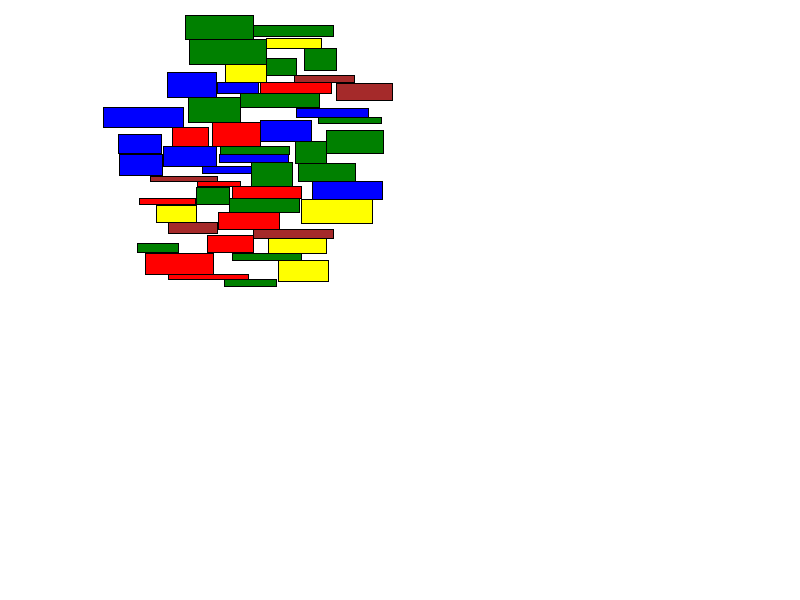
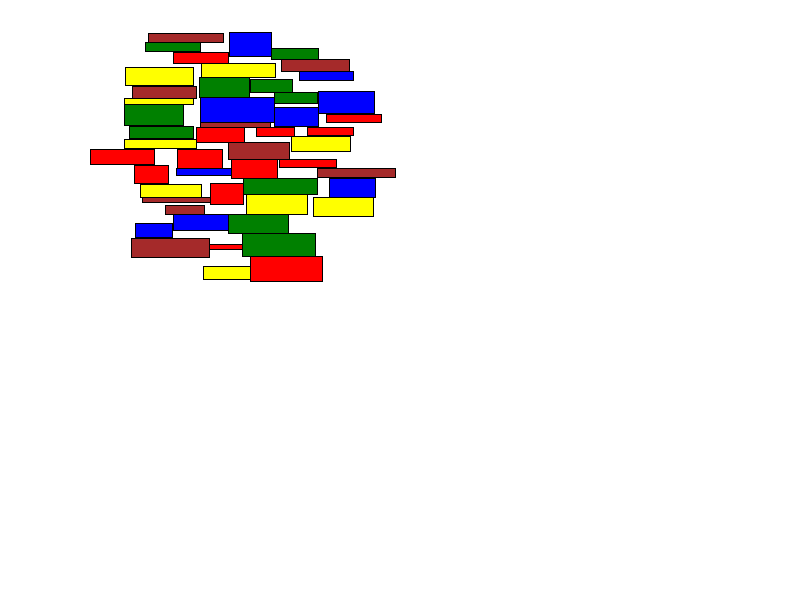
Отрефакторил код

Changed region(s): [[0.0938, 0.0, 0.5, 0.48]]

diff --git a/cs/TagsCloudVisualization/Task 1,3/CircularCloudLayouter.cs b/cs/TagsCloudVisualization/Task 1,3/CircularCloudLayouter.cs
@@ -5,58 +5,57 @@ namespace TagsCloudVisualization;
 
 public class CircularCloudLayouter
 {
-    public int DistanceBetweenTurns { get; private set; }
-    public int InitialRadiusOfTheSpiral { get; private set; }
-    public double AngleOfRotationInRadians { get; private set; }
-    public double AngleChangeStep { get; private set; }
+    private const double AngleChangeStep = Math.PI / 180;
+    private int DistanceBetweenTurns { get; set; }
+    private int InitialRadiusOfSpiral { get; set; }
+    private double AngleOfRotationInRadians { get; set; }
 
-    readonly LinkedList<Rectangle> cloudOfRectangles;
+    private readonly LinkedList<Rectangle> cloudOfRectangles;
 
     public readonly Point Center;
 
     public CircularCloudLayouter(Point center)
     {
         Center = center;
-        AngleChangeStep = 0.017;
         cloudOfRectangles = [];
         DistanceBetweenTurns = 30;
-        InitialRadiusOfTheSpiral = 30;
     }
 
     public Rectangle PutNextRectangle(Size rectangleSize)
     {
-        if (cloudOfRectangles.Count == 0)
-            InitialRadiusOfTheSpiral = Math.Min(rectangleSize.Width, rectangleSize.Height) / 2;
+        var halfOfMinSide = Math.Min(rectangleSize.Width, rectangleSize.Height) / 2;
+        DistanceBetweenTurns = Math.Min(DistanceBetweenTurns, halfOfMinSide);
 
-        DistanceBetweenTurns = Math.Min(DistanceBetweenTurns,
-                Math.Min(rectangleSize.Width, rectangleSize.Height) / 2);
+        if (cloudOfRectangles.Count == 0) InitialRadiusOfSpiral = halfOfMinSide;
 
-        return ChooseTheLocationForTheRectangle(rectangleSize);
+        var rectangle = ChooseLocationForRectangle(rectangleSize);
+        cloudOfRectangles.AddFirst(rectangle);
+
+        return rectangle;
     }
 
-    private Rectangle ChooseTheLocationForTheRectangle(Size rectangleSize)
+    private Rectangle ChooseLocationForRectangle(Size rectangleSize)
     {
-        var currentPoint = GetANewPoint();
-        var rectangle = GetANewRectangle(currentPoint, rectangleSize);
+        var currentPoint = GetNewPoint();
+        var rectangle = GetNewRectangle(currentPoint, rectangleSize);
 
         while (cloudOfRectangles.Any(rect => rect.IntersectsWith(rectangle)))
         {
             AngleOfRotationInRadians += AngleChangeStep;
-            currentPoint = GetANewPoint();
-            rectangle = GetANewRectangle(currentPoint, rectangleSize);
+            currentPoint = GetNewPoint();
+            rectangle = GetNewRectangle(currentPoint, rectangleSize);
         }
 
-        cloudOfRectangles.AddFirst(rectangle);
         return rectangle;
     }
 
-    private Rectangle GetANewRectangle(Point centerPoint, Size rectangleSize) =>
+    private Rectangle GetNewRectangle(Point centerPoint, Size rectangleSize) =>
         new(new(centerPoint.X - rectangleSize.Width / 2,
             centerPoint.Y - rectangleSize.Height / 2), rectangleSize);
 
-    private Point GetANewPoint()
+    private Point GetNewPoint()
     {
-        var coefficient = InitialRadiusOfTheSpiral + AngleOfRotationInRadians * DistanceBetweenTurns;
+        var coefficient = InitialRadiusOfSpiral + AngleOfRotationInRadians * DistanceBetweenTurns;
         var x = coefficient * Math.Cos(AngleOfRotationInRadians) + Center.X;
         var y = coefficient * Math.Sin(AngleOfRotationInRadians) + Center.Y;
 

diff --git a/cs/TagsCloudVisualization/Task 2/VisualizationCloudLayout.cs b/cs/TagsCloudVisualization/Task 2/VisualizationCloudLayout.cs
@@ -1,36 +1,43 @@
-using System.Drawing;
+using Newtonsoft.Json.Linq;
+using System.Drawing;
 
 namespace TagsCloudVisualization.Task_2;
 
 public class VisualizationCloudLayout
 {
-    public readonly int Width;
-    public readonly int Height;
-    public readonly Color BackgroundColor;
-    public readonly Color[] RectanglePalette;
+    private readonly int width;
+    private readonly int height;
+    private readonly Color backgroundColor;
+    private readonly Color[] rectanglePalette;
 
     public VisualizationCloudLayout(int width, int height, Color backgroundColor, IEnumerable<Color> rectanglePalette)
     {
-        Width = width;
-        Height = height;
-        BackgroundColor = backgroundColor;
-        RectanglePalette = rectanglePalette.ToArray();
+        this.width = width;
+        this.height = height;
+        this.backgroundColor = backgroundColor;
+        this.rectanglePalette = rectanglePalette.ToArray();
     }
 
-    public Bitmap CreateAnImage(CircularCloudLayouter cloudLayouter, int amountRectangles,
-        int startWidthRectangles, int endWidthRectangles,
-        int startHeightRectangles, int endHeightRectangles, IEnumerable<Rectangle> rectangles = null)
+    public Bitmap CreateImage(CircularCloudLayouter cloudLayouter, int amountRectangles,
+        Size minSize, Size maxSize)
     {
-        var image = new Bitmap(Width, Height);
-
-        rectangles = rectangles ?? CloudLayout.GenerateCloudLayout(
+        var image = new Bitmap(width, height);
+        var rectangles = CloudLayout.GenerateCloudLayout(
             amountRectangles,
-            startWidthRectangles, endWidthRectangles,
-            startHeightRectangles, endHeightRectangles,
+            minSize,
+            maxSize,
             cloudLayouter);
-        var graphics = Graphics.FromImage(image);
-        
-        DrawCloudLayout(graphics, rectangles);
+
+        DrawCloudLayout(Graphics.FromImage(image), rectangles);
+
+        return image;
+    }
+
+    public Bitmap CreateImage(IEnumerable<Rectangle> rectangles)
+    {
+        var image = new Bitmap(width, height);
+
+        DrawCloudLayout(Graphics.FromImage(image), rectangles);
 
         return image;
     }
@@ -39,11 +46,11 @@ public class VisualizationCloudLayout
     {
         var random = new Random();
 
-        graphics.FillRectangle(new SolidBrush(BackgroundColor), 0, 0, Width, Height);
+        graphics.FillRectangle(new SolidBrush(backgroundColor), 0, 0, width, height);
 
         foreach (var rect in rectangles)
         {
-            var color = RectanglePalette[random.Next(RectanglePalette.Length)];
+            var color = rectanglePalette[random.Next(rectanglePalette.Length)];
 
             graphics.FillRectangle(new SolidBrush(color), rect);
             graphics.DrawRectangle(new Pen(Color.Black, 1), rect);

diff --git a/cs/TagsCloudVisualization/Task 2/CloudLayout.cs b/cs/TagsCloudVisualization/Task 2/CloudLayout.cs
@@ -4,26 +4,28 @@ namespace TagsCloudVisualization.Task_2;
 
 public static class CloudLayout
 { 
-    public static IEnumerable<Rectangle> GenerateCloudLayout(int amountRectangles,
-        int startWidthRectangles, int endWidthRectangles,
-        int startHeightRectangles, int endHeightRectangles,
+    public static IEnumerable<Rectangle> GenerateCloudLayout(
+        int amountRectangles,
+        Size minSize,
+        Size maxSize,
         CircularCloudLayouter cloudLayouter)
-        => GenerateRectangleSizes(amountRectangles,
-            startWidthRectangles, endWidthRectangles,
-            startHeightRectangles, endHeightRectangles)
+        => GenerateRectangleSizes(amountRectangles, minSize, maxSize)
             .Select(cloudLayouter.PutNextRectangle);
 
     private static IEnumerable<Size> GenerateRectangleSizes(
         int amountData,
-        int startWidth, int endWidth,
-        int startHeight, int endHeight)
+        Size minSize,
+        Size maxSize)
     {
+        if (minSize.Width > maxSize.Width || minSize.Height > maxSize.Width)
+            throw new ArgumentException("Минимальные размеры не могут быть больше максимальных");
+
         var random = new Random();
 
         for (var i = 0; i < amountData; i++)
         {
-            var width = random.Next(startWidth, endWidth + 1);
-            var height = random.Next(startHeight, endHeight + 1);
+            var width = random.Next(minSize.Width, maxSize.Width + 1);
+            var height = random.Next(minSize.Height, maxSize.Height + 1);
 
             yield return new Size(width, height);
         }

diff --git a/cs/TagsCloudVisualization/Task 1,3/CircularCloudLayouterTests.cs b/cs/TagsCloudVisualization/Task 1,3/CircularCloudLayouterTests.cs
@@ -11,8 +11,7 @@ namespace TagsCloudVisualization;
 [TestFixture]
 public class CircularCloudLayouterTests
 {
-    private readonly static List<Rectangle> listRectangles = [];
-    private readonly static CircularCloudLayouter cloudLayouter;
+    private readonly List<Rectangle> listRectangles = [];
 
     [Test]
     public void CircularCloudLayouter_CorrectInitialization_NoExceptions()
@@ -25,7 +24,7 @@ public class CircularCloudLayouterTests
     }
 
     [Test]
-    public void PutNextRectangle_RandomSizes_MustBeTheRightSize()
+    public void PutNextRectangle_RandomSizes_MustBeRightSize()
     {
         var cloud = new CircularCloudLayouter(new Point(960, 540));
         var random = new Random();
@@ -72,7 +71,7 @@ public class CircularCloudLayouterTests
             var path = "../../../../TagsCloudVisualization/TestErrorReports/сloud.png";
             var visual = new VisualizationCloudLayout(1920, 1080, Color.White, colors);
 
-            visual.CreateAnImage(cloudLayouter, 175, 30, 100, 5, 25, listRectangles)
+            visual.CreateImage(listRectangles)
                 .Save(path);
 
             Console.WriteLine($"Tag cloud visualization saved to file {Path.GetFullPath(path)}");

diff --git a/cs/TagsCloudVisualization/Program.cs b/cs/TagsCloudVisualization/Program.cs
@@ -6,16 +6,18 @@ namespace TagsCloudVisualization;
 
 internal class Program
 {
-    static void Main(string[] args)
+    private const string Path = "../../../../TagsCloudVisualization/Task 2";
+
+    static void Main()
     {
         var colors = new[] { Color.Red, Color.Green, Color.Brown, Color.Yellow, Color.Blue };
 
         var visual = new VisualizationCloudLayout(800, 600, Color.White, colors);
 
-        visual.CreateAnImage(new CircularCloudLayouter(new Point(400, 300)), 175, 30, 100, 5, 25)
-            .Save("../../../../TagsCloudVisualization/Task 2/CentralСloud.png");
+        visual.CreateImage(new CircularCloudLayouter(new Point(400, 300)), 175, new Size(30, 5), new Size(100, 25))
+            .Save($"{Path}/CentralСloud.png");
 
-        visual.CreateAnImage(new CircularCloudLayouter(new Point(250, 150)), 50, 30, 80, 5, 25)
-            .Save("../../../../TagsCloudVisualization/Task 2/SmalСloud.png");
+        visual.CreateImage(new CircularCloudLayouter(new Point(250, 150)), 50, new Size(30, 5), new Size(80, 25))
+            .Save($"{Path}/SmalСloud.png");
     }
 }
